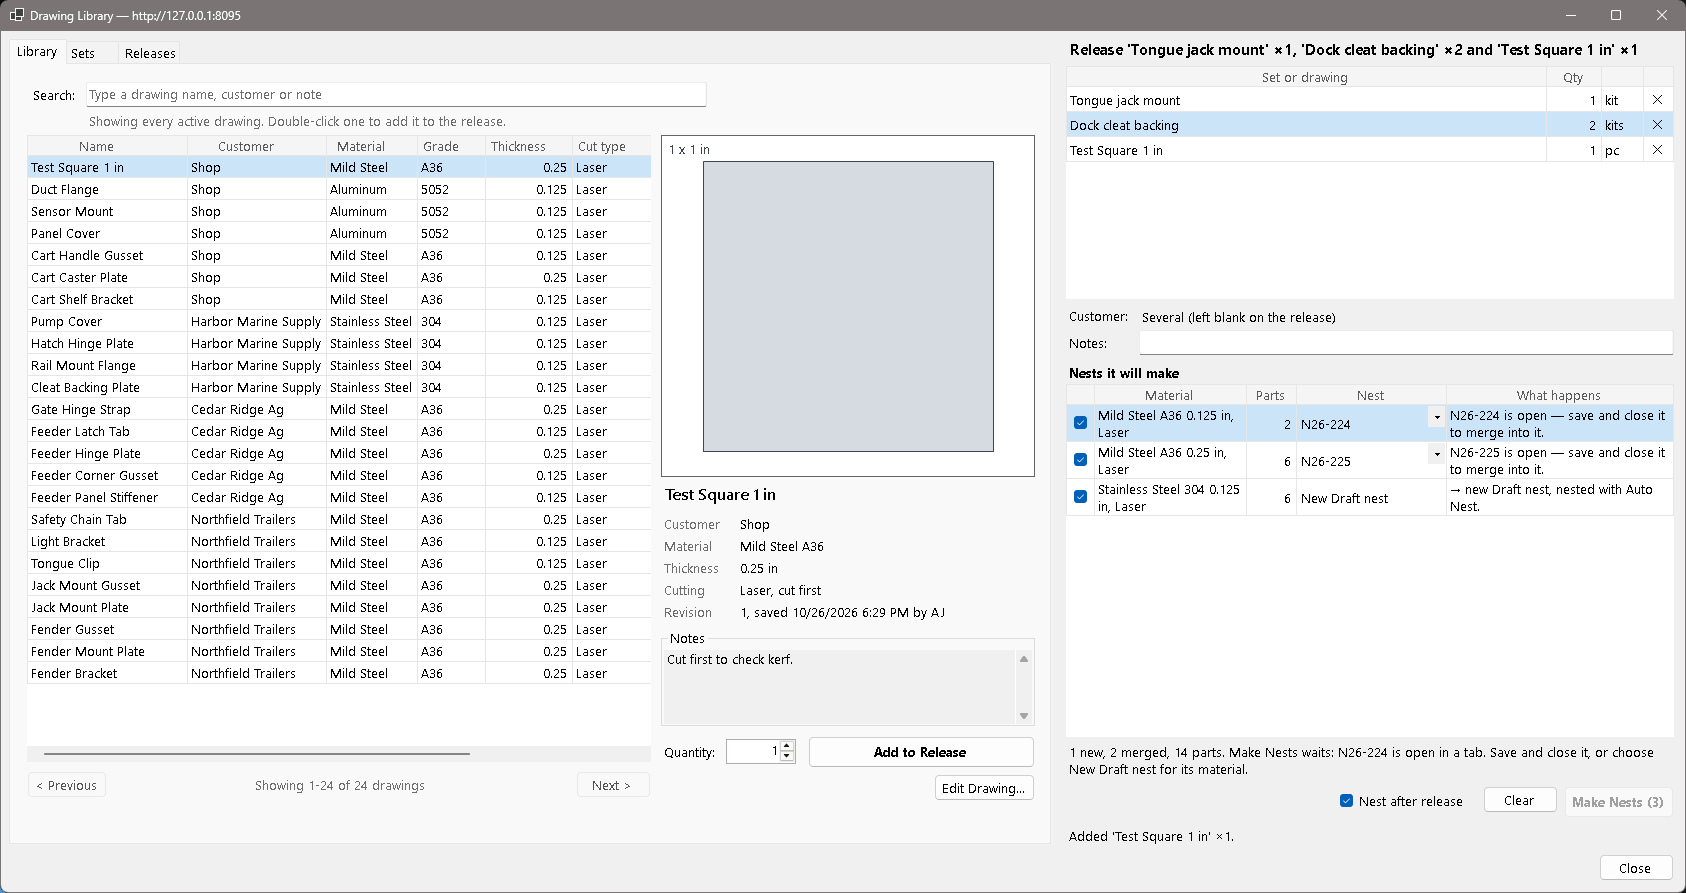
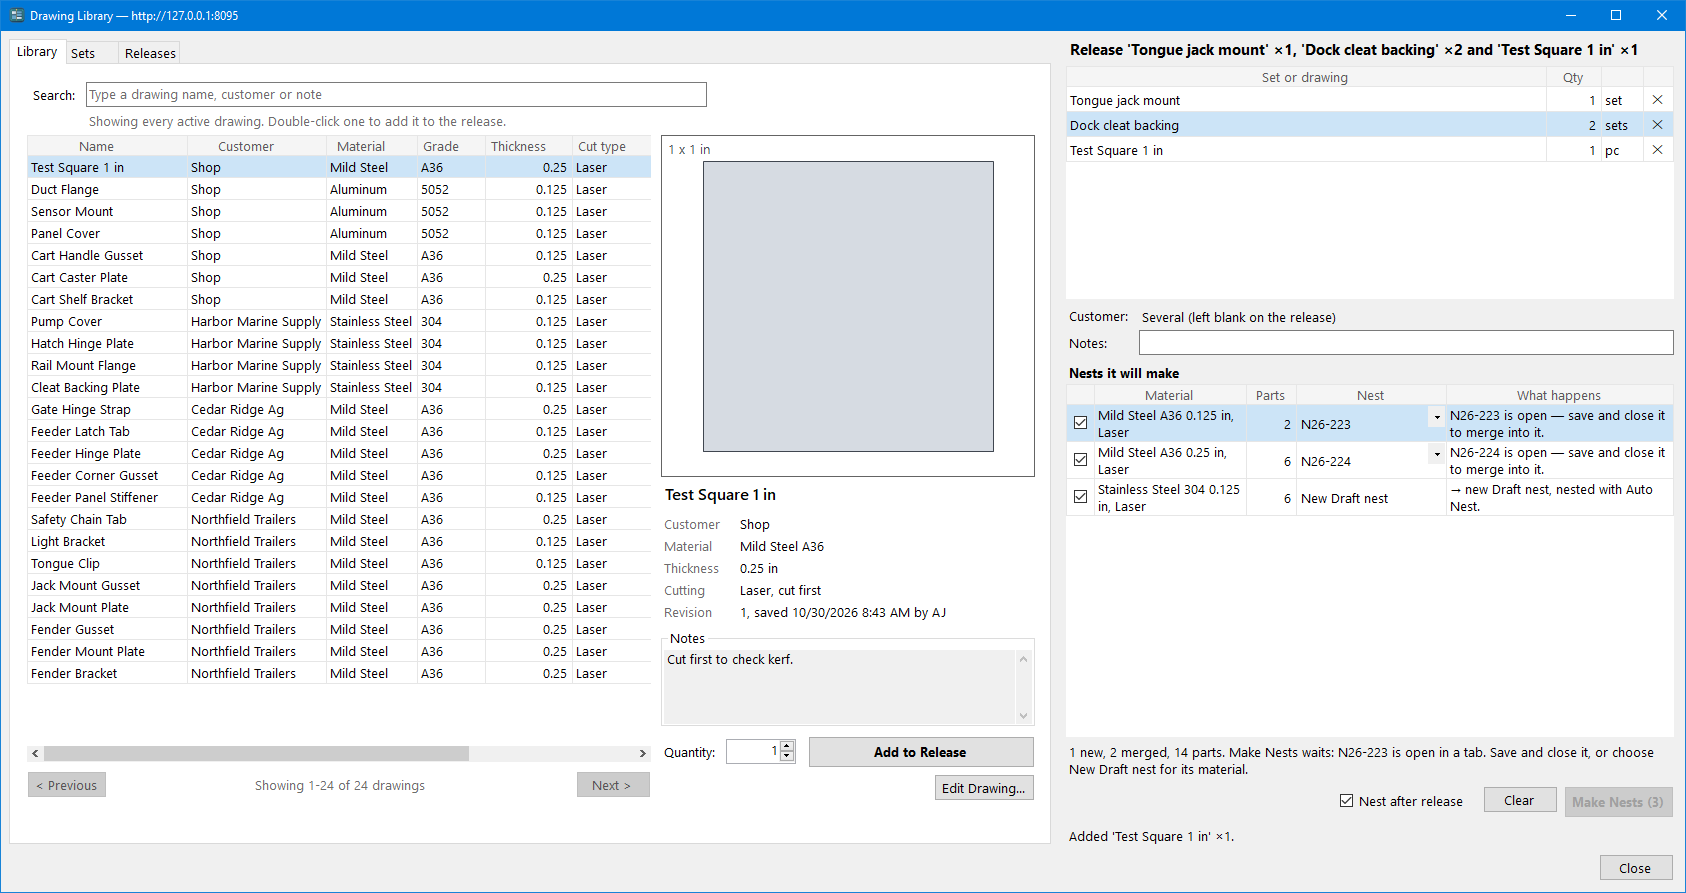
Count release quantities in sets, not kits
The release panel's unit column now says set/sets, matching the rest of
the app (OpenNest 4ca8b0de), so the guides and the three release panel
captures follow it. "A kit" stays only as an example of what a set can be.

diff --git a/docs/releases.md b/docs/releases.md
@@ -14,14 +14,14 @@ The release panel is on the right of the **Library** and **Sets** tabs in
 **File > Drawing Sets...**.
 
 - **Add a set:** double-click it on the **Sets** tab, or select it and click
-  **Add to Release**. Each double-click adds one more kit.
+  **Add to Release**. Each double-click adds one to its **Qty**.
 - **Add a drawing on its own:** double-click it on the **Library** tab. It's added at
   the **Quantity** under the preview.
 
 ![Release panel with two sets and a drawing, merging into two drafts](images/release-panel.png)
 
 1. **What's in the release.** The heading sums it up. Click a **Qty** to change it:
-   kits for a set, pieces (**pcs**) for a drawing. **✕** removes a line.
+   how many of a set (**sets**), or pieces (**pcs**) of a drawing. **✕** removes a line.
 2. **Customer** is filled in when every line has the same customer. **Notes** are
    saved with the release.
 3. **Nests it will make.** One row per material, with how many parts it gets and
@@ -43,7 +43,7 @@ nest:
 
 ![Release panel making two new Draft nests](images/release-new-nests.png)
 
-1. Two kits of one set.
+1. Two of one set.
 2. Each row says **new Draft nest**.
 3. **Make Nests (2)** makes both.
 

diff --git a/docs/drawing-sets.md b/docs/drawing-sets.md
@@ -2,7 +2,7 @@
 
 A drawing set is a named list of [library drawings](drawing-library.md), each with how
 many one set needs: an assembly, a kit or a repeat order. Releasing a set makes the
-nests for it, with every quantity multiplied by the number of kits. See
+nests for it, with every quantity multiplied by the number of sets. See
 [Releases](releases.md).
 
 Sets are kept on the [nest server](nest-server.md) and need Database mode. A set
@@ -26,8 +26,8 @@ Choose **File > Drawing Sets...**. The window opens on the **Sets** tab.
    **More** holds **Archive**, **Restore**, **History...**, **Releases...** and
    **Import BOM...**. Right-click a set for the same commands.
 
-Double-click a set to add one kit of it to the release panel. Double-click again for
-another kit.
+Double-click a set to add it to the release panel. Double-click it again to add one
+more.
 
 ## Make or change a set {#set-editor}
 
